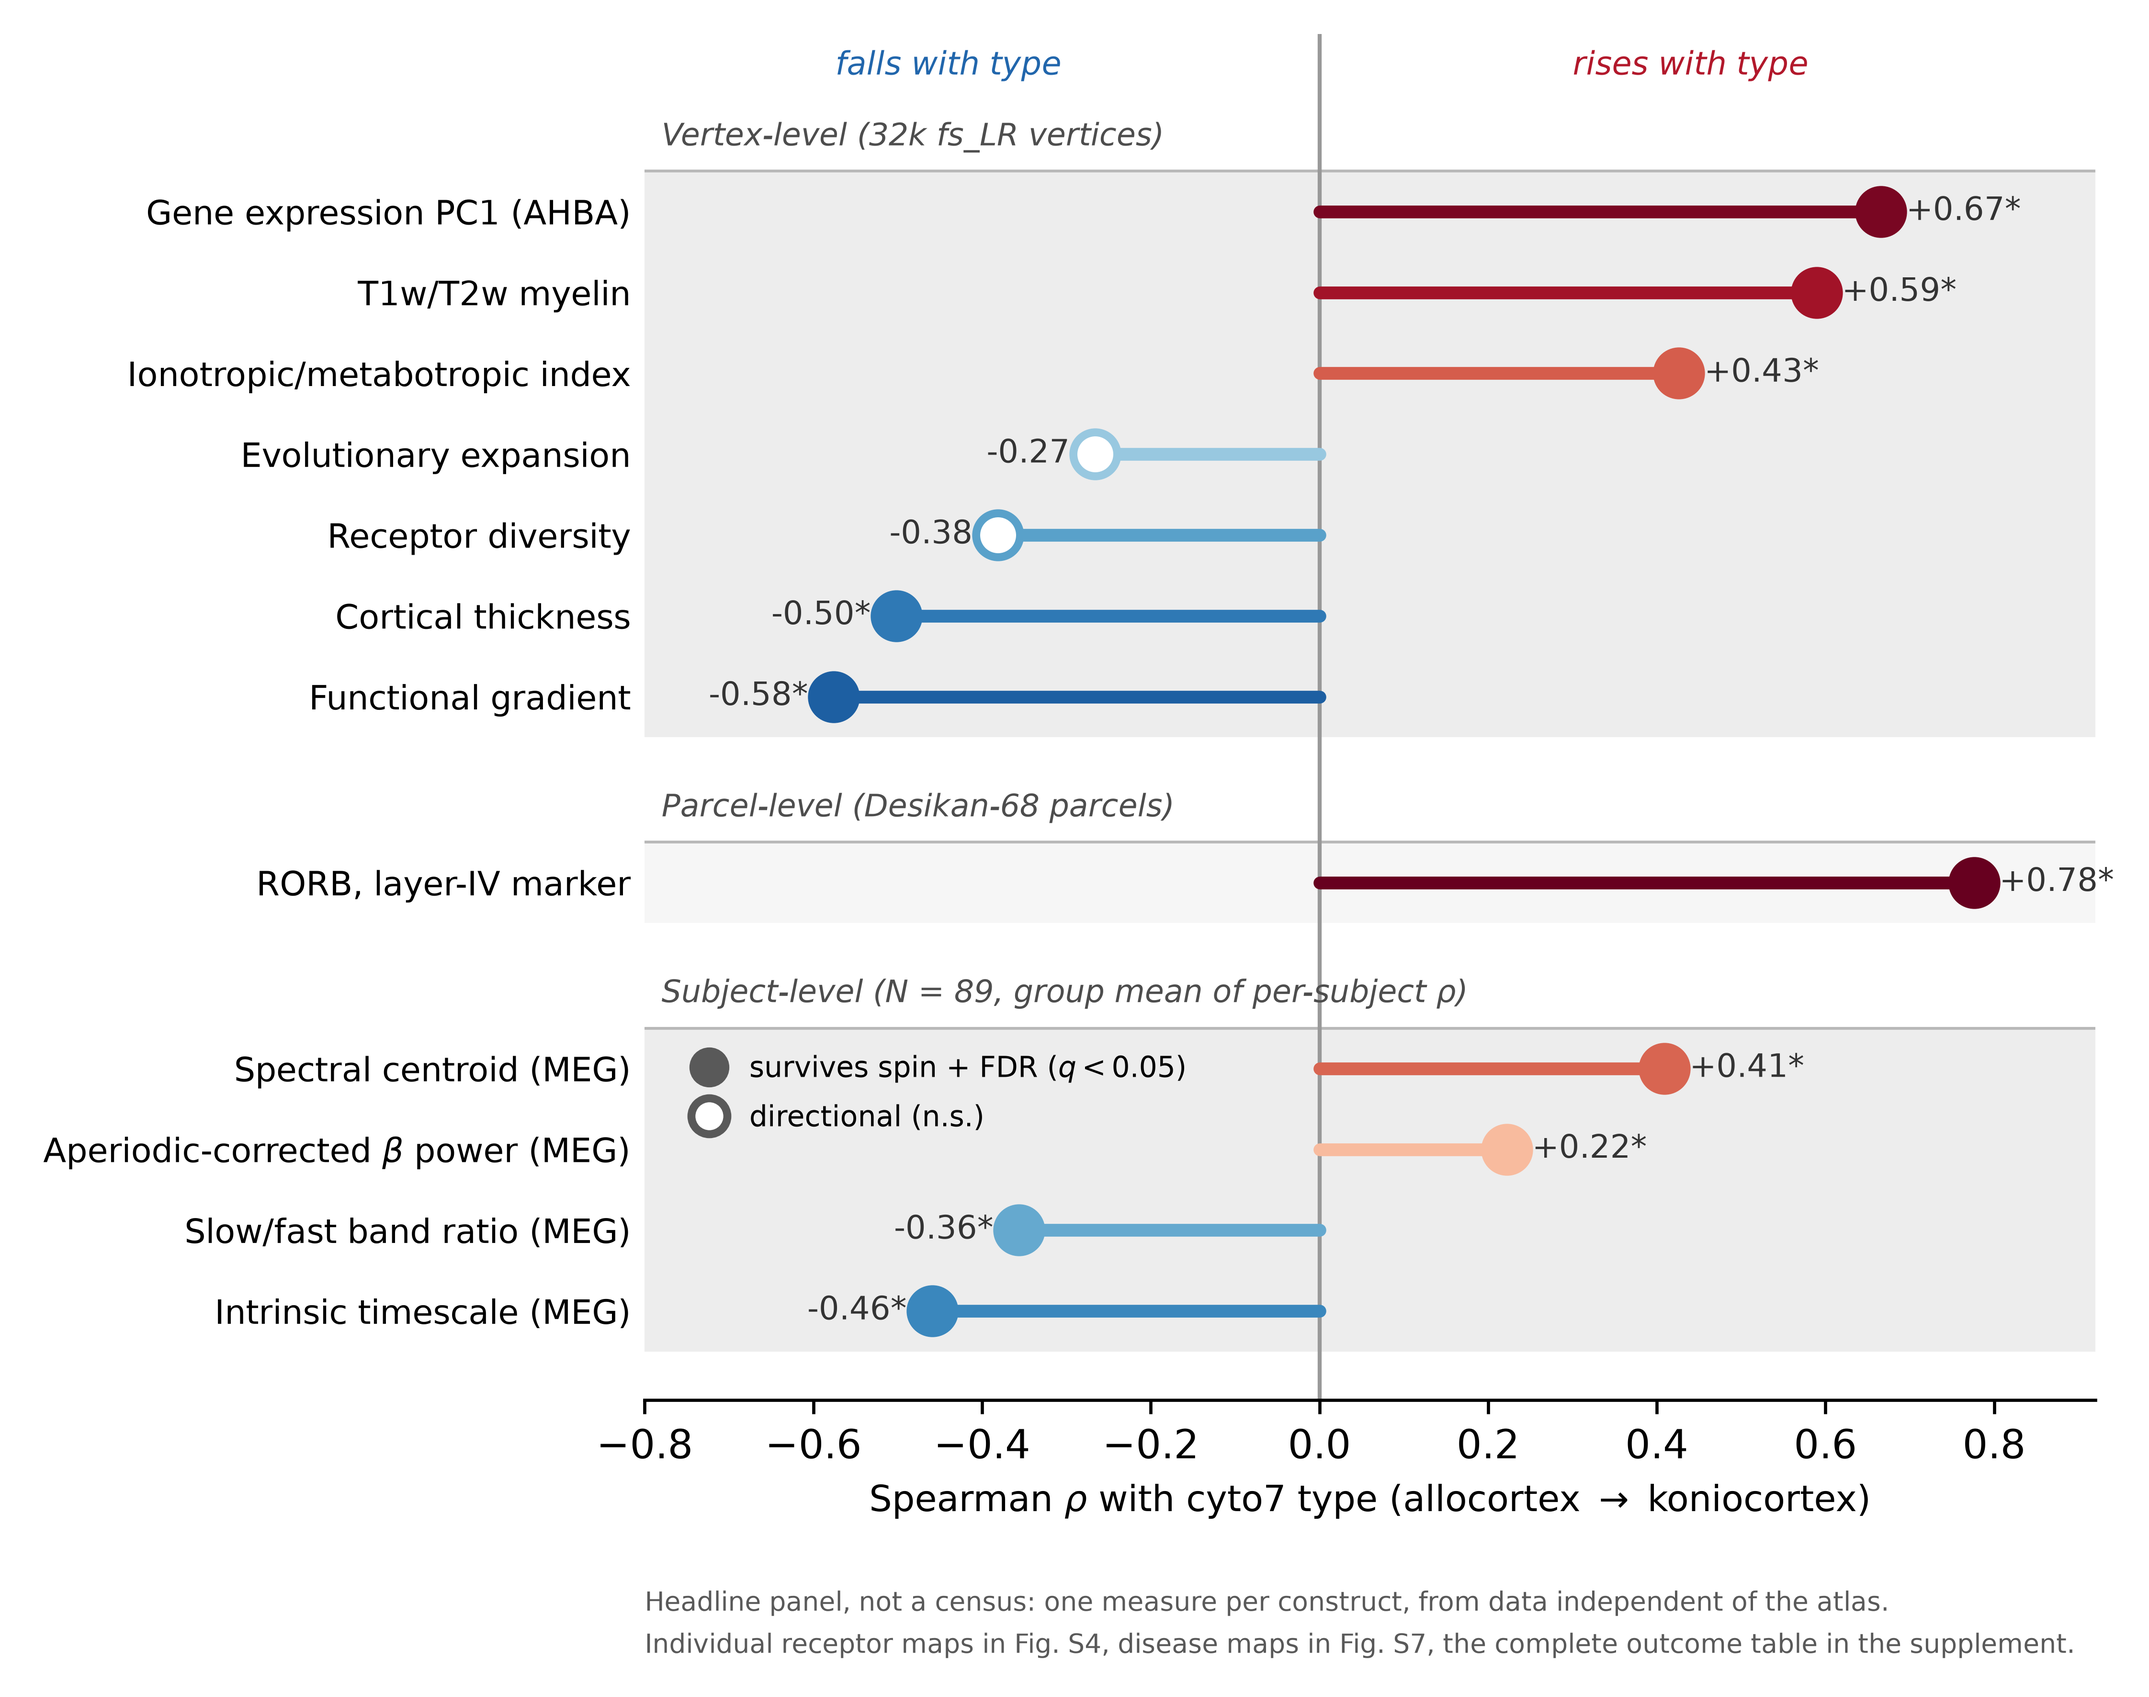
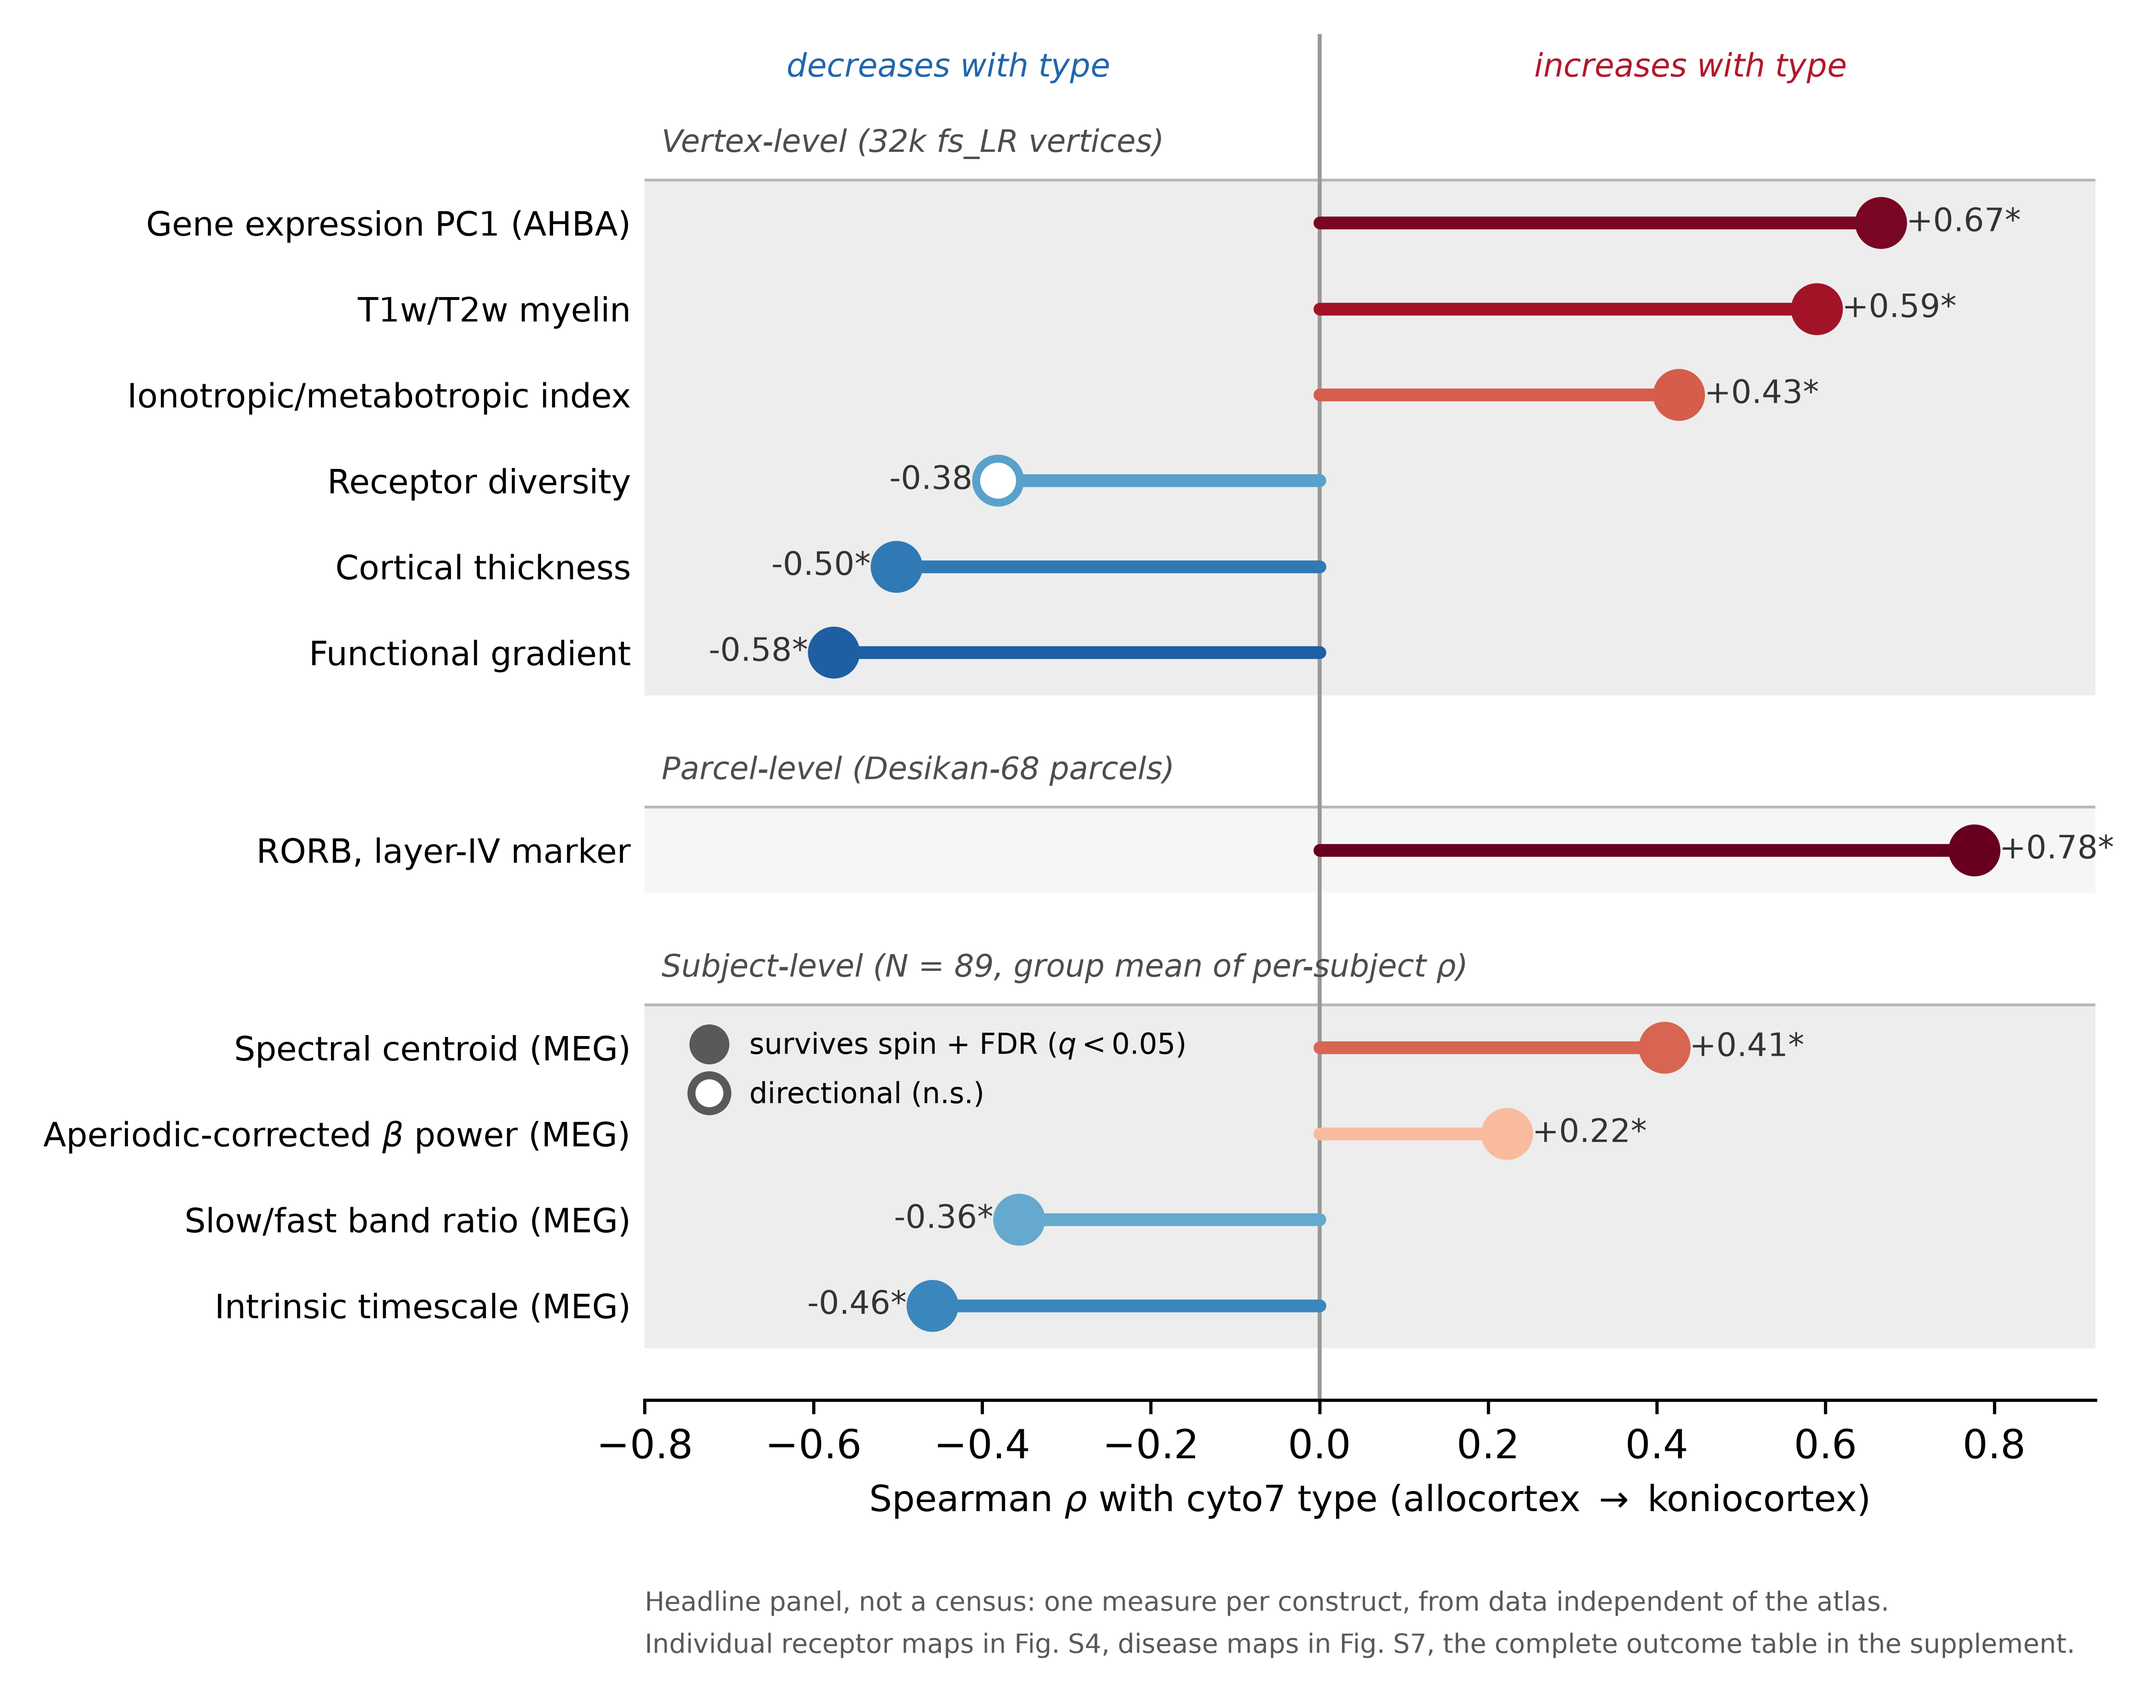
Resync with the final manuscript: Figure 5, and the expansion wording
Miguel's last round removed the evolutionary expansion row from Figure 5 and
renamed its column headers. The bundle was shipping the pre-RR29 panel.

figures/cyto7_structural_model_gradients.png replaced with the regenerated one,
now byte-identical to the file the manuscript compiles (ac5d021d, 553,063 B;
was 1f8e709d, 571,591 B). Every one of the other 18 shipped figures was already
byte-identical to the paper's copy, so nothing else needed replacing.

code/figures/rr3_fig6_bands.py: the expansion row is commented out, not
deleted, with the values, the reason and a pointer to where the analysis lives;
headers now read "increases with type" and "decreases with type". Without this
the shipped generator no longer reproduced the shipped figure.

NO analysis script was removed. fig9_predictions.py still computes both
expansion maps, rr2_outcome_table.py still tabulates them, and both tests
remain in the outcome table at the values the paper reports (xu2020_evoexp
-0.2659, hill2010_devexp -0.1146, 143 tests). The superseded eight-measure
panel fig5_structural_model_gradients.py was left untouched on purpose.

results/report_fig9_predictions.md: two passages corrected, neither deleted and
every number kept. The one that mattered sits under "Bottom line for the
manuscript paragraph" and listed expansion as one of the axes cyto7 recovers;
it now says the paper does not build on it, where the values are reported
[…]

diff --git a/code/figures/rr3_fig6_bands.py b/code/figures/rr3_fig6_bands.py
@@ -43,7 +43,14 @@ BANDS = [
         ("Gene expression PC1 (AHBA)", "genepc1"),
         ("T1w/T2w myelin", "myelin"),
         ("Ionotropic/metabotropic index", "composite_iono_minus_metabo_index"),
-        ("Evolutionary expansion", "xu2020_evoexp"),
+        # Evolutionary expansion is no longer a row of this panel. The comparison was
+        # still run and its values are in the outcome table (Xu 2020 rho = -0.27,
+        # Hill 2010 rho = -0.11); the paper reports them and declines to build on them,
+        # because the available expansion estimates rest on cross-species alignments
+        # whose phylogenetic assumptions differ from the cortical-type framework.
+        # The analysis itself is untouched: fig9_predictions.py still computes both and
+        # rr2_outcome_table.py still tabulates them.
+        # Expansion was a non-survivor, so the survivor count is unchanged at 10 of 11.
         ("Receptor diversity", "diversity_shannon_entropy_H"),
         ("Cortical thickness", "thickness"),
         ("Functional gradient", "gradient"),
@@ -131,9 +138,11 @@ def main(argv=None):
     for s in ("top", "right", "left"):
         ax.spines[s].set_visible(False)
     ax.tick_params(axis="y", length=0)
-    ax.text(0.44, 0.05, "rises with type", fontsize=8, style="italic", color="#b2182b",
+    # "increases"/"decreases", not "rises"/"falls": those are the verbs the paper uses
+    # throughout, and these two are baked into the image where no .tex grep finds them.
+    ax.text(0.44, 0.05, "increases with type", fontsize=8, style="italic", color="#b2182b",
             ha="center", va="center")
-    ax.text(-0.44, 0.05, "falls with type", fontsize=8, style="italic", color="#2166ac",
+    ax.text(-0.44, 0.05, "decreases with type", fontsize=8, style="italic", color="#2166ac",
             ha="center", va="center")
     leg = [Line2D([0], [0], marker="o", color="0.35", lw=0, mfc="0.35", mec="0.35", ms=9,
                   label="survives spin + FDR ($q<0.05$)"),

diff --git a/results/report_fig9_predictions.md b/results/report_fig9_predictions.md
@@ -66,11 +66,19 @@ was mirrored across hemispheres.
 | xu2020 evolutionary expansion | **bilateral** | **−0.266** | 0.028 | −0.303 (p=0.010) | 0.069 |
 | hill2010 developmental expansion | RH-only (exploratory) | −0.115 | 0.416 | −0.144 | 0.416 |
 
-**Outcome:** with a proper bilateral map, **evolutionary expansion tracks the type axis in the
-predicted direction** (ρ=−0.27, p=0.028; allo-excluded p=0.010) — greater expansion in
-less-differentiated cortex — a clear improvement over the RH-only parent result (which was
+**Outcome:** with a proper bilateral map, evolutionary expansion runs in the predicted
+direction (ρ=−0.27, p=0.028; allo-excluded p=0.010) — greater expansion in
+less-differentiated cortex — a change from the RH-only parent result (which was
 n.s., p≈0.49). It sits just above the Fig-9 FDR threshold (q=0.069). Developmental expansion
 (RH-only) remains n.s.
+
+> **What the paper does with this (as of 15 Sept 2026).** Both comparisons were run and both
+> are reported: they are rows 81 and 82 of the outcome table (Table S8), and §3.7 gives their
+> values (ρ = −0.27 and −0.11). The paper **does not build on them**, because the available
+> expansion estimates rest on cross-species alignments whose phylogenetic assumptions differ
+> from the cortical-type framework. The comparison was therefore removed from Figure 5 and
+> moved to §4.10 as future work: a direct human-to-macaque comparison in matched types.
+> This report is the record of what was computed, which is why the numbers stay here.
 
 **Fig-9 family (BH-FDR across H + xu2020 evoexp + devexp):** H q=0.069, xu2020 evoexp q=0.069,
 devexp q=0.416 — the two evolutionary/diversity axes are nominally significant and near-FDR;
@@ -143,8 +151,13 @@ cyto7 recovers **several** Fig. 9 axes from independent data, with honestly vary
   OCD, 22q show atrophy concentrated in lower-type cortex; depression and ADHD remain
   significant even after controlling for the functional gradient (cyto7-specific), while OCD
   is carried by the shared gradient; epilepsy is opposite and schizophrenia does not follow.
-- **Evolutionary cortical expansion** (Part C, now bilateral) tracks the type axis in the
-  predicted direction (ρ=−0.27, p=0.028; allo-excluded p=0.010).
+- **Evolutionary cortical expansion** (Part C, now bilateral) runs in the predicted direction
+  (ρ=−0.27, p=0.028; allo-excluded p=0.010), but **the paper does not build on it**. Both
+  expansion comparisons are reported as rows 81 and 82 of the outcome table (Table S8) and
+  their values are given in §3.7; the result was removed from Figure 5 and the direct
+  human-to-macaque comparison in matched types is listed in §4.10 as future work, because the
+  available expansion estimates rest on cross-species alignments whose phylogenetic
+  assumptions differ from the cortical-type framework.
 - **Receptor diversity** (Part A) is directionally correct but weak.
 Together with the ionotropic/metabotropic ratio (Supp Fig S5), cyto7 aligns with **multiple —
 not all — of the molecular/cellular gradients Fig. 9 sketches**, and the disease-vulnerability
